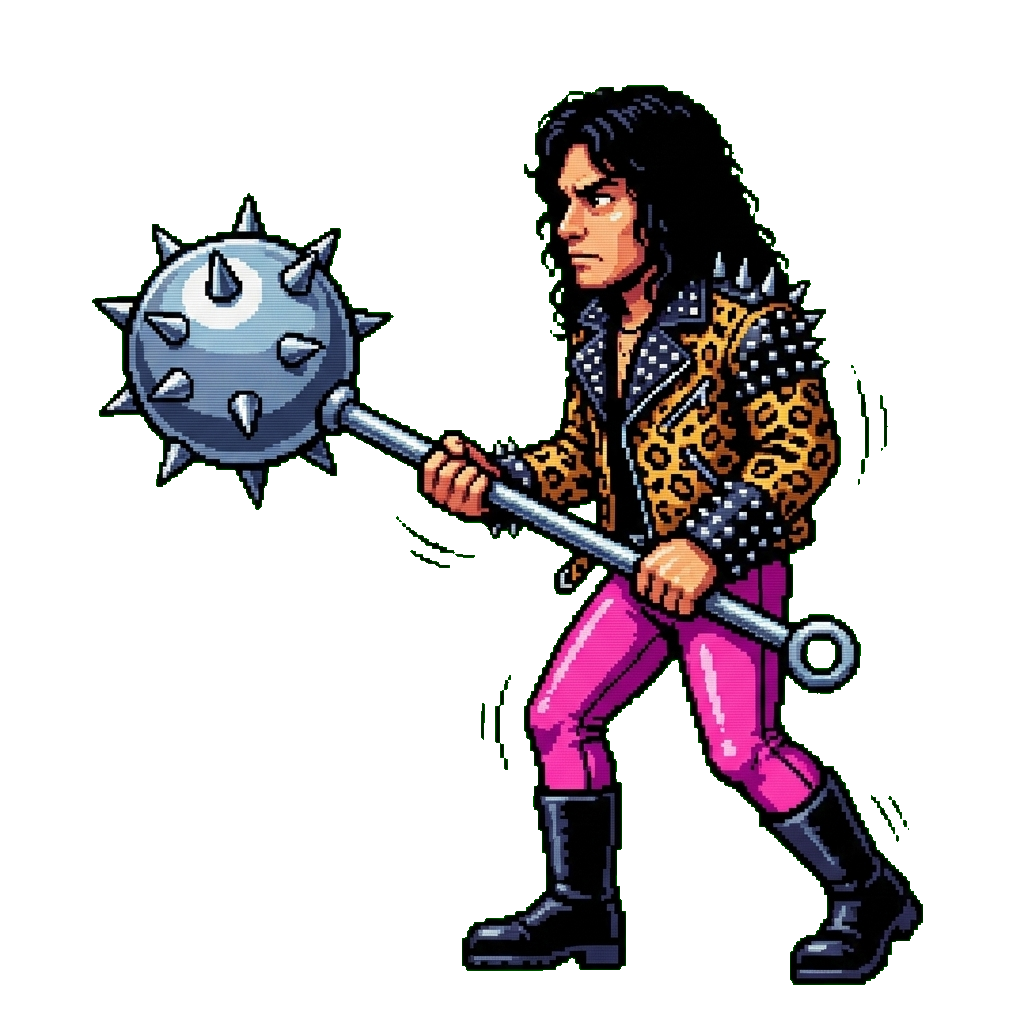
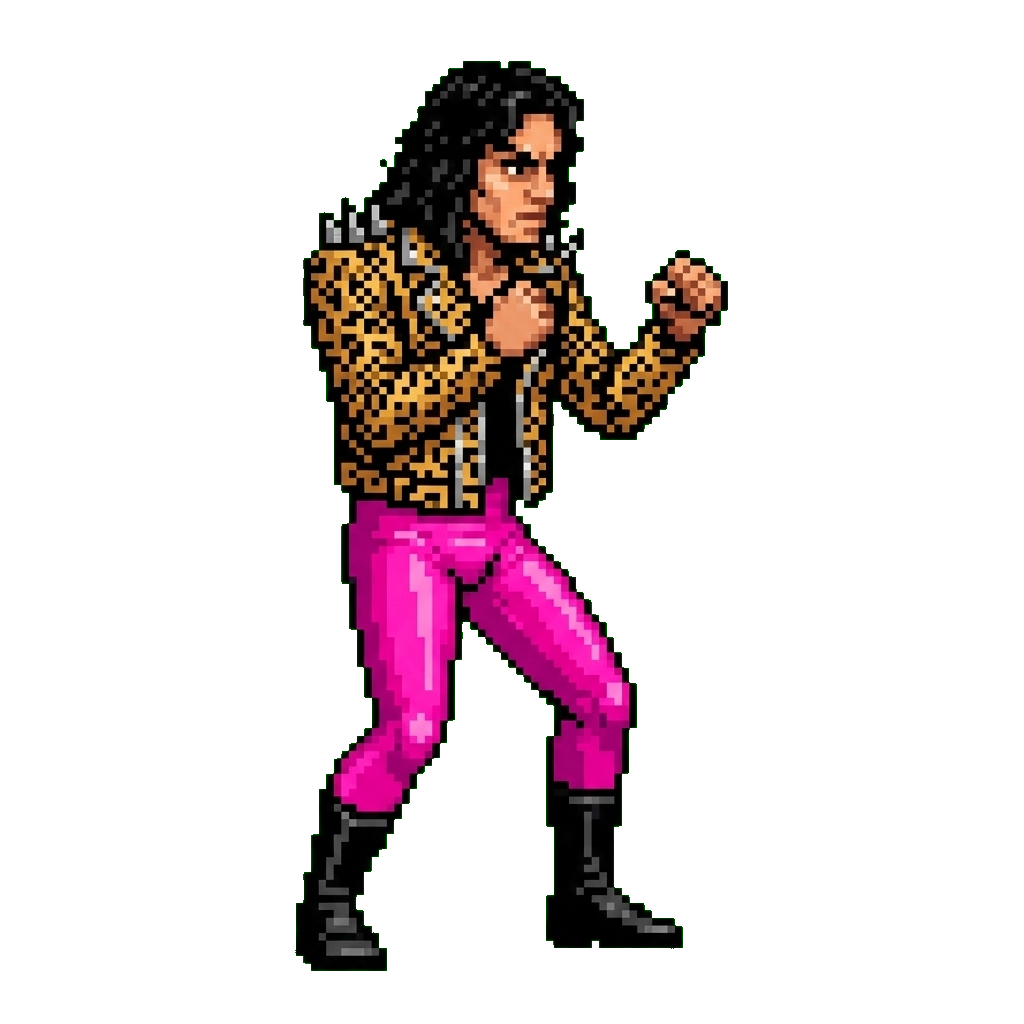
style: update Diego's portrait to 16-bit arcade style, face sprite facing right, random pacifiers/baby bottles attacks, and corrected biography description

diff --git a/app.js b/app.js
@@ -247,8 +247,8 @@ const fightersData = {
         fullbody: "assets/diego_side_transparent.png",
         intelligenceText: "Media 5/10 neuronas",
         intelligenceValue: 5,
-        weaponText: "CHUPETES SÓNICOS Y MAZO GLAM",
-        bio: "El menor del grupo, cariñosamente apodado 'La Guagua'. Fanático empedernido del Glam Rock de los 80, pasa el día peinándose el copete y maquillándose. Es el hijo adoptivo no oficial de Chananeitor (su 'padre' por broma de edad), quien intenta educarlo en las artes del metal pesado sin mucho éxito."
+        weaponText: "CHUPETES SÓNICOS Y MAMADERAS DE METAL",
+        bio: "Hijo adoptivo de chananeitor, quien intenta educarlo en las artes del alcohol sin mucho exito. Ten cuidado, que al menor descuido te lanzará sus chupetes de sonicos y sus mamaderas de metal"
     }
 };
 
@@ -451,7 +451,7 @@ function updateAI() {
                 projType = 'bottle';
                 playThrowBottleSound();
             } else if (p2.id === 'diego') {
-                projType = 'pacifier';
+                projType = Math.random() < 0.5 ? 'pacifier' : 'babybottle';
                 playThrowPacifierSound();
             } else {
                 playThrowSheepSound();
@@ -670,6 +670,24 @@ function gameLoop() {
             ctx.beginPath();
             ctx.arc(cx + 8, cy, 9, 0, Math.PI * 2);
             ctx.fill();
+        } else if (proj.type === 'babybottle') {
+            // Dibujar mamadera de metal/biberón (cuerpo gris/blanco, tapa rosa, tetina amarilla)
+            const cx = proj.x + 20;
+            const cy = proj.y + 20;
+            
+            // 1. Cuerpo de la mamadera (Gris metalizado/blanco)
+            ctx.fillStyle = '#b0b0b8';
+            ctx.fillRect(cx - 10, cy - 6, 16, 12);
+            ctx.fillStyle = '#ffffff';
+            ctx.fillRect(cx - 10, cy - 6, 16, 4); // Brillo superior
+            
+            // 2. Tapa/Collar (Rosa neón)
+            ctx.fillStyle = '#ff007f';
+            ctx.fillRect(cx + 6, cy - 8, 4, 16);
+            
+            // 3. Tetina (Amarillo/Marrón claro)
+            ctx.fillStyle = '#ffcc00';
+            ctx.fillRect(cx + 10, cy - 3, 4, 6);
         } else {
             // Dibujar ovejita grande y esponjosa con alta definición pixel art
             const centerX = proj.x + 20;
@@ -922,7 +940,7 @@ document.addEventListener("DOMContentLoaded", () => {
             if (p1.id === 'chananeitor') {
                 playThrowBottleSound();
             } else if (p1.id === 'diego') {
-                projType = 'pacifier';
+                projType = Math.random() < 0.5 ? 'pacifier' : 'babybottle';
                 playThrowPacifierSound();
             } else {
                 projType = 'sheep';